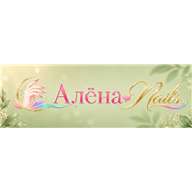
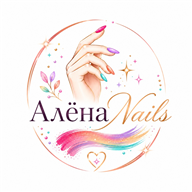
Вернуть круглую иконку Алёна Nails на экран Домой

diff --git a/docs/index.html b/docs/index.html
@@ -9,10 +9,10 @@
   <meta name="application-name" content="АлёнаNails">
   <meta name="theme-color" content="#fff5f9">
   <title>АлёнаNails</title>
-  <link rel="manifest" href="manifest.json?v=alenanails">
-  <link rel="apple-touch-icon" href="apple-touch-icon.png?v=alenanails">
-  <link rel="apple-touch-icon" sizes="180x180" href="apple-touch-icon.png?v=alenanails">
-  <link rel="icon" href="icon-192.png" type="image/png">
+  <link rel="manifest" href="manifest.json?v=13">
+  <link rel="apple-touch-icon" href="apple-touch-icon.png?v=13">
+  <link rel="apple-touch-icon" sizes="180x180" href="apple-touch-icon.png?v=13">
+  <link rel="icon" href="icon-192.png?v=13" type="image/png">
   <link rel="stylesheet" href="style.css?v=12">
 </head>
 <body>

diff --git a/docs/app.js b/docs/app.js
@@ -55,7 +55,7 @@ document.getElementById('dismissHint').addEventListener('click', () => {
 setupPinchZoom();
 
 if ('serviceWorker' in navigator) {
-  navigator.serviceWorker.register('./sw.js?v=12').catch(() => {});
+  navigator.serviceWorker.register('./sw.js?v=13').catch(() => {});
 }
 
 if (!localStorage.getItem(HINT_KEY) && !window.navigator.standalone) {

diff --git a/docs/sw.js b/docs/sw.js
@@ -1,4 +1,4 @@
-const CACHE = 'alenanails-v12';
+const CACHE = 'alenanails-v13';
 const ASSETS = [
   './',
   './index.html',